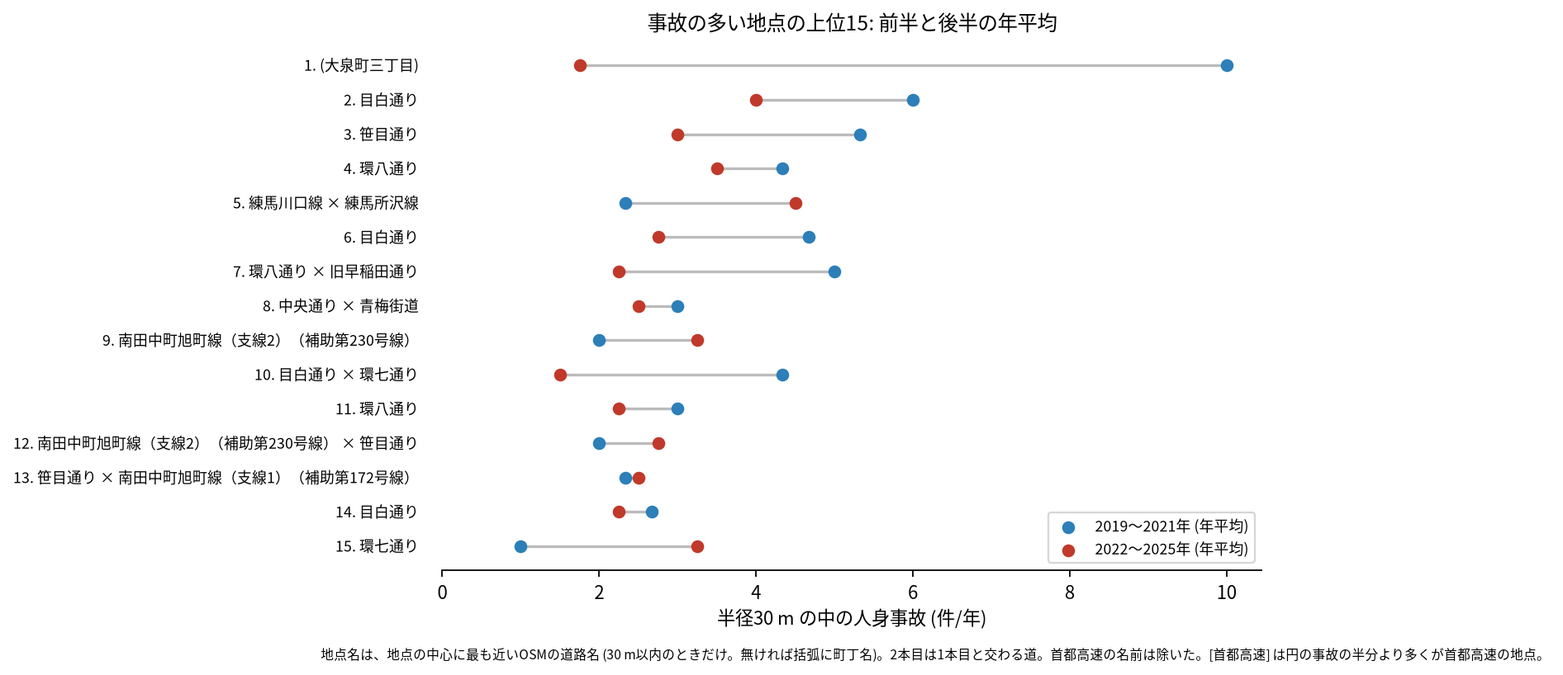
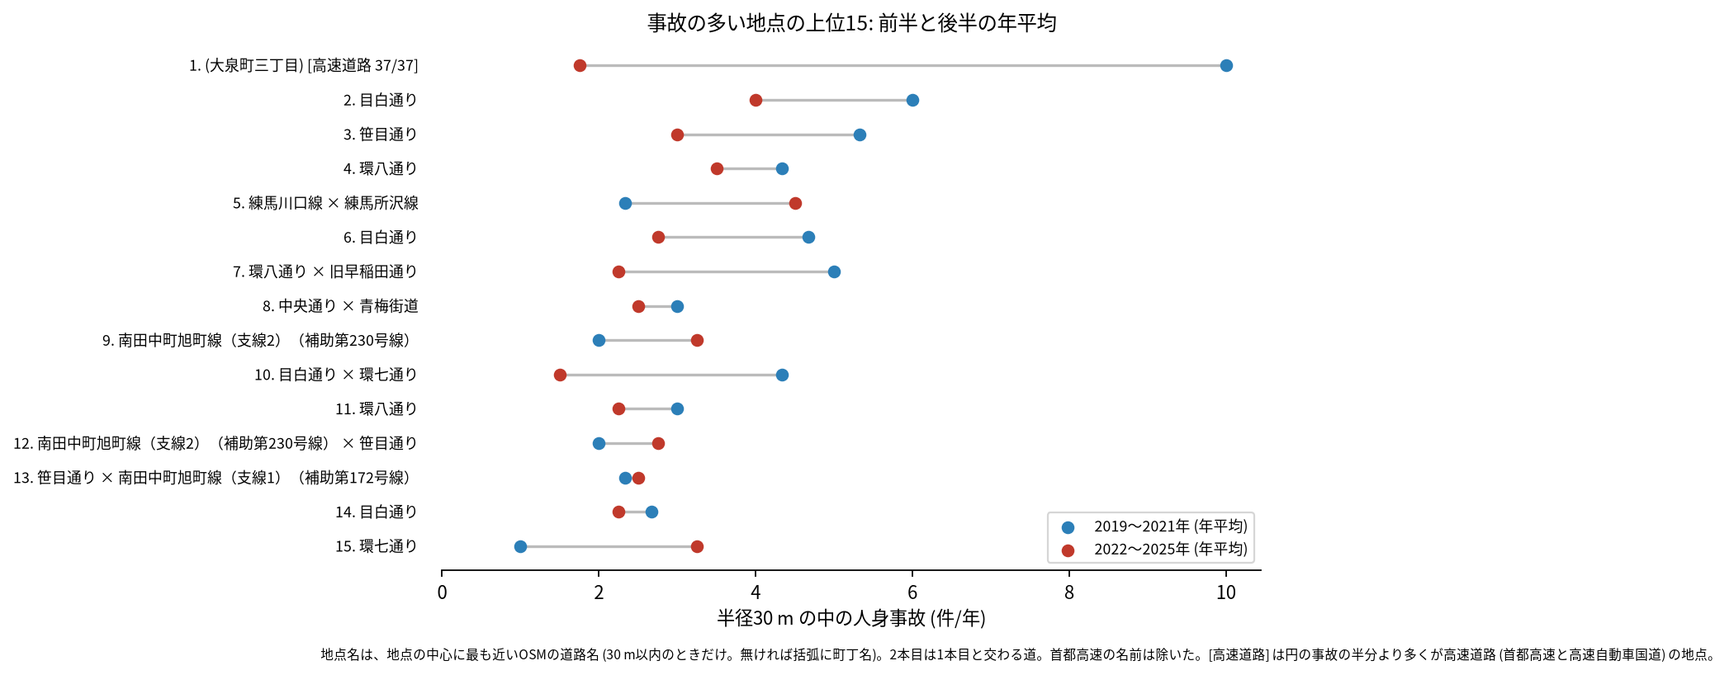
suginami, nerima: count national expressways (route 4000-4999) as expressways (template R020)
Nerima's first hotspot is 37 accidents on the Kan-Etsu; without expressways it drops out (14 of 15 stay).

Claude-Session: https://claude.ai/code/session_01NkWLXtsKgqQGFwWTBKgPox

diff --git a/projects/_traffic_accident/nerima-accident-trends-by-role/scripts/analyze.py b/projects/_traffic_accident/nerima-accident-trends-by-role/scripts/analyze.py
@@ -374,12 +374,16 @@ def main():
     files["deaths"] = write_csv("deaths.csv", sorted(deaths, key=lambda d: d["year"]))
 
     # Road type (route code: 0001-0999 national, 1000-1499 major prefectural, 2000-2999 prefectural,
-    # 3000-3999 municipal, 5000-5499 expressway; 9000- private and other).
+    # 3000-3999 municipal, 4000-4999 national expressway (中央道, 東名, 関越: Suginami, Setagaya, Nerima),
+    # 5000-5499 首都高速; 9000- private and other).
     def route_class(code):
         n = int(code)
         return ("国道" if n < 1000 else "主要地方道 (都道)" if n < 1500 else "一般都道" if 2000 <= n < 3000
-                else "区道" if 3000 <= n < 4000 else "首都高速" if 5000 <= n < 5500 else "その他")
+                else "区道" if 3000 <= n < 4000 else "高速自動車国道" if 4000 <= n < 5000
+                else "首都高速" if 5000 <= n < 5500 else "その他")
     roads = Counter((r["file_year"], route_class(r["route"])) for r in mine)
+    # What その他 holds, by route code (Suginami had to count it outside the outputs).
+    audit["other_route_codes"] = dict(Counter(r["route"] for r in mine if route_class(r["route"]) == "その他").most_common())
     nat = Counter(r["route"] for r in mine if int(r["route"]) < 1000)
     files["route"] = write_csv("route_class.csv", [{"year": y, "route_class": c, "accidents": n}
                                                    for (y, c), n in sorted(roads.items())])
@@ -472,7 +476,7 @@ def main():
                     "top_combo": combos.most_common(1)[0][0], "top_combo_n": combos.most_common(1)[0][1],
                     # 首都高速 accidents in the circle: where they are most, road_1 names the road under the
                     # viaduct (Katsushika's 11th, 15 of 16 on the expressway, named after a surface road).
-                    "expressway": sum(5000 <= int(m["route"]) < 5500 for m in ms),
+                    "expressway": sum(4000 <= int(m["route"]) < 5500 for m in ms),
                     "road_1": near_names[0] if near_names else "",
                     "road_1_m": round(road_1_m, 1) if road_1_m is not None else None,
                     "road_2": near_names[1] if len(near_names) > 1 else "",
@@ -489,15 +493,16 @@ def main():
     # The 30 m hotspots without the 首都高速 accidents (route 5000-5499), beside the main reading: an expressway on
     # a viaduct or in a tunnel shares x, y with the road under or over it (Shibuya, Meguro and Nakano each added
     # this reading; it is part of every run now, and is 0 accidents where no expressway runs).
-    surface = np.flatnonzero([route_class(p["route"]) != "首都高速" for p in prow])
+    # Expressways are 4000-5499 (高速自動車国道 and 首都高速, the routes with a 高速票); Suginami found 4000-4999 left in.
+    surface = np.flatnonzero([not 4000 <= int(p["route"]) < 5500 for p in prow])
     no_expr = [(surface[c], surface[m]) for c, m in greedy_hotspots(xy[surface], RADIUS, TOP)]
     others = np.array([xy[c] for c, _ in no_expr])
     overlap["30m_without_expressway"] = int(sum(np.hypot(*(others - xy[c]).T).min() <= RADIUS for c, _ in sets[RADIUS]))
     audit["expressway_points"] = len(prow) - len(surface)
     audit["hotspot_counts_without_expressway"] = [len(m) for _, m in no_expr]
-    audit["expressway_in_top15"] = {"accidents": int(sum(route_class(prow[i]["route"]) == "首都高速"
+    audit["expressway_in_top15"] = {"accidents": int(sum(4000 <= int(prow[i]["route"]) < 5500
                                                        for _, m in sets[RADIUS] for i in m)),
-                                    "per_rank": [int(sum(route_class(prow[i]["route"]) == "首都高速" for i in m))
+                                    "per_rank": [int(sum(4000 <= int(prow[i]["route"]) < 5500 for i in m))
                                                  for _, m in sets[RADIUS]]}
 
     # B6 towns: accidents and OSM road length per census small area.
@@ -526,9 +531,9 @@ def main():
         (select count(*) from pts p where ST_Contains(t.g, ST_Point(p.x, p.y))) as accidents,
         (select count(*) from pts p where ST_Contains(t.g, ST_Point(p.x, p.y))
             and ('61' in (p.type_A, p.type_B))) as ped,
-        -- 首都高速 accidents: a town under a viaduct counts them, and its road length counts the viaduct (Adachi)
+        -- expressway accidents (4000-5499): a town under a viaduct counts them, and its road length counts the viaduct (Adachi)
         (select count(*) from pts p where ST_Contains(t.g, ST_Point(p.x, p.y))
-            and p.route between '5000' and '5499') as expressway,
+            and p.route between '4000' and '5499') as expressway,
         (select coalesce(sum(ST_Length(ST_Intersection(r.g, t.g))), 0) from road_m r where ST_Intersects(r.g, t.g)) / 1000 as road_km,
         ST_Area(t.g) / 1e6 as area_km2, t.g_lonlat as geometry
         from towns t""")

diff --git a/projects/_traffic_accident/suginami-accident-trends-by-role/scripts/analyze.py b/projects/_traffic_accident/suginami-accident-trends-by-role/scripts/analyze.py
@@ -374,12 +374,16 @@ def main():
     files["deaths"] = write_csv("deaths.csv", sorted(deaths, key=lambda d: d["year"]))
 
     # Road type (route code: 0001-0999 national, 1000-1499 major prefectural, 2000-2999 prefectural,
-    # 3000-3999 municipal, 5000-5499 expressway; 9000- private and other).
+    # 3000-3999 municipal, 4000-4999 national expressway (中央道, 東名, 関越: Suginami, Setagaya, Nerima),
+    # 5000-5499 首都高速; 9000- private and other).
     def route_class(code):
         n = int(code)
         return ("国道" if n < 1000 else "主要地方道 (都道)" if n < 1500 else "一般都道" if 2000 <= n < 3000
-                else "区道" if 3000 <= n < 4000 else "首都高速" if 5000 <= n < 5500 else "その他")
+                else "区道" if 3000 <= n < 4000 else "高速自動車国道" if 4000 <= n < 5000
+                else "首都高速" if 5000 <= n < 5500 else "その他")
     roads = Counter((r["file_year"], route_class(r["route"])) for r in mine)
+    # What その他 holds, by route code (Suginami had to count it outside the outputs).
+    audit["other_route_codes"] = dict(Counter(r["route"] for r in mine if route_class(r["route"]) == "その他").most_common())
     nat = Counter(r["route"] for r in mine if int(r["route"]) < 1000)
     files["route"] = write_csv("route_class.csv", [{"year": y, "route_class": c, "accidents": n}
                                                    for (y, c), n in sorted(roads.items())])
@@ -472,7 +476,7 @@ def main():
                     "top_combo": combos.most_common(1)[0][0], "top_combo_n": combos.most_common(1)[0][1],
                     # 首都高速 accidents in the circle: where they are most, road_1 names the road under the
                     # viaduct (Katsushika's 11th, 15 of 16 on the expressway, named after a surface road).
-                    "expressway": sum(5000 <= int(m["route"]) < 5500 for m in ms),
+                    "expressway": sum(4000 <= int(m["route"]) < 5500 for m in ms),
                     "road_1": near_names[0] if near_names else "",
                     "road_1_m": round(road_1_m, 1) if road_1_m is not None else None,
                     "road_2": near_names[1] if len(near_names) > 1 else "",
@@ -489,15 +493,16 @@ def main():
     # The 30 m hotspots without the 首都高速 accidents (route 5000-5499), beside the main reading: an expressway on
     # a viaduct or in a tunnel shares x, y with the road under or over it (Shibuya, Meguro and Nakano each added
     # this reading; it is part of every run now, and is 0 accidents where no expressway runs).
-    surface = np.flatnonzero([route_class(p["route"]) != "首都高速" for p in prow])
+    # Expressways are 4000-5499 (高速自動車国道 and 首都高速, the routes with a 高速票); Suginami found 4000-4999 left in.
+    surface = np.flatnonzero([not 4000 <= int(p["route"]) < 5500 for p in prow])
     no_expr = [(surface[c], surface[m]) for c, m in greedy_hotspots(xy[surface], RADIUS, TOP)]
     others = np.array([xy[c] for c, _ in no_expr])
     overlap["30m_without_expressway"] = int(sum(np.hypot(*(others - xy[c]).T).min() <= RADIUS for c, _ in sets[RADIUS]))
     audit["expressway_points"] = len(prow) - len(surface)
     audit["hotspot_counts_without_expressway"] = [len(m) for _, m in no_expr]
-    audit["expressway_in_top15"] = {"accidents": int(sum(route_class(prow[i]["route"]) == "首都高速"
+    audit["expressway_in_top15"] = {"accidents": int(sum(4000 <= int(prow[i]["route"]) < 5500
                                                        for _, m in sets[RADIUS] for i in m)),
-                                    "per_rank": [int(sum(route_class(prow[i]["route"]) == "首都高速" for i in m))
+                                    "per_rank": [int(sum(4000 <= int(prow[i]["route"]) < 5500 for i in m))
                                                  for _, m in sets[RADIUS]]}
 
     # B6 towns: accidents and OSM road length per census small area.
@@ -526,9 +531,9 @@ def main():
         (select count(*) from pts p where ST_Contains(t.g, ST_Point(p.x, p.y))) as accidents,
         (select count(*) from pts p where ST_Contains(t.g, ST_Point(p.x, p.y))
             and ('61' in (p.type_A, p.type_B))) as ped,
-        -- 首都高速 accidents: a town under a viaduct counts them, and its road length counts the viaduct (Adachi)
+        -- expressway accidents (4000-5499): a town under a viaduct counts them, and its road length counts the viaduct (Adachi)
         (select count(*) from pts p where ST_Contains(t.g, ST_Point(p.x, p.y))
-            and p.route between '5000' and '5499') as expressway,
+            and p.route between '4000' and '5499') as expressway,
         (select coalesce(sum(ST_Length(ST_Intersection(r.g, t.g))), 0) from road_m r where ST_Intersects(r.g, t.g)) / 1000 as road_km,
         ST_Area(t.g) / 1e6 as area_km2, t.g_lonlat as geometry
         from towns t""")

diff --git a/projects/_traffic_accident/nerima-accident-trends-by-role/scripts/plot.py b/projects/_traffic_accident/nerima-accident-trends-by-role/scripts/plot.py
@@ -408,7 +408,7 @@ def fig_hotspot_halves():
         # A hotspot whose accidents are mostly on the 首都高速 is named after the surface road under it; say so
         # (Toshima's 8th, 14 of 22 on the expressway).
         if int(h["expressway"]) * 2 > int(h["accidents"]):
-            name += f" [首都高速 {h['expressway']}/{h['accidents']}]"
+            name += f" [高速道路 {h['expressway']}/{h['accidents']}]"
         ax.text(-0.3, y, f"{h['rank']}. {name}", ha="right", va="center", fontsize=8)
     ax.set_yticks([])
     ax.set_xlim(0, None)
@@ -418,7 +418,7 @@ def fig_hotspot_halves():
         ax.spines[side].set_visible(False)
     ax.set_title("事故の多い地点の上位15: 前半と後半の年平均", fontsize=11)
     fig.text(0.01, -0.02, "地点名は、地点の中心に最も近いOSMの道路名 (30 m以内のときだけ。無ければ括弧に町丁名)。"
-             "2本目は1本目と交わる道。首都高速の名前は除いた。[首都高速] は円の事故の半分より多くが首都高速の地点。", fontsize=7)
+             "2本目は1本目と交わる道。首都高速の名前は除いた。[高速道路] は円の事故の半分より多くが高速道路 (首都高速と高速自動車国道) の地点。", fontsize=7)
     save(fig, "hotspot-halves", "事故の多い地点は、前半と後半で続いているか", ["outputs/hotspots.csv"],
          sum(int(h["accidents"]) for h in hot), "上位は7年合計で選んだので、選んだ期間と同じデータで見ている (平均への回帰が起きうる)")
 

diff --git a/projects/_traffic_accident/suginami-accident-trends-by-role/scripts/plot.py b/projects/_traffic_accident/suginami-accident-trends-by-role/scripts/plot.py
@@ -408,7 +408,7 @@ def fig_hotspot_halves():
         # A hotspot whose accidents are mostly on the 首都高速 is named after the surface road under it; say so
         # (Toshima's 8th, 14 of 22 on the expressway).
         if int(h["expressway"]) * 2 > int(h["accidents"]):
-            name += f" [首都高速 {h['expressway']}/{h['accidents']}]"
+            name += f" [高速道路 {h['expressway']}/{h['accidents']}]"
         ax.text(-0.3, y, f"{h['rank']}. {name}", ha="right", va="center", fontsize=8)
     ax.set_yticks([])
     ax.set_xlim(0, None)
@@ -418,7 +418,7 @@ def fig_hotspot_halves():
         ax.spines[side].set_visible(False)
     ax.set_title("事故の多い地点の上位15: 前半と後半の年平均", fontsize=11)
     fig.text(0.01, -0.02, "地点名は、地点の中心に最も近いOSMの道路名 (30 m以内のときだけ。無ければ括弧に町丁名)。"
-             "2本目は1本目と交わる道。首都高速の名前は除いた。[首都高速] は円の事故の半分より多くが首都高速の地点。", fontsize=7)
+             "2本目は1本目と交わる道。首都高速の名前は除いた。[高速道路] は円の事故の半分より多くが高速道路 (首都高速と高速自動車国道) の地点。", fontsize=7)
     save(fig, "hotspot-halves", "事故の多い地点は、前半と後半で続いているか", ["outputs/hotspots.csv"],
          sum(int(h["accidents"]) for h in hot), "上位は7年合計で選んだので、選んだ期間と同じデータで見ている (平均への回帰が起きうる)")
 

diff --git a/projects/_traffic_accident/nerima-accident-trends-by-role/scripts/summarize.py b/projects/_traffic_accident/nerima-accident-trends-by-role/scripts/summarize.py
@@ -68,7 +68,7 @@ def main():
     hot = rows("hotspots.csv")
     lines.append("top 15 hotspots: top route " + str(dict(Counter(h["top_route"] for h in hot).most_common()))
                  + "; road_1 " + str(dict(Counter(h["road_1"] or "(none within 30 m)" for h in hot).most_common()))
-                 + f"; with 首都高速 accidents {sum(int(h['expressway']) > 0 for h in hot)}")
+                 + f"; with expressway (4000-5499) accidents {sum(int(h['expressway']) > 0 for h in hot)}")
     (OUT / "summary.txt").write_text("\n".join(lines) + "\n", encoding="utf-8")
     print("\n".join(lines))
 

diff --git a/projects/_traffic_accident/suginami-accident-trends-by-role/scripts/summarize.py b/projects/_traffic_accident/suginami-accident-trends-by-role/scripts/summarize.py
@@ -68,7 +68,7 @@ def main():
     hot = rows("hotspots.csv")
     lines.append("top 15 hotspots: top route " + str(dict(Counter(h["top_route"] for h in hot).most_common()))
                  + "; road_1 " + str(dict(Counter(h["road_1"] or "(none within 30 m)" for h in hot).most_common()))
-                 + f"; with 首都高速 accidents {sum(int(h['expressway']) > 0 for h in hot)}")
+                 + f"; with expressway (4000-5499) accidents {sum(int(h['expressway']) > 0 for h in hot)}")
     (OUT / "summary.txt").write_text("\n".join(lines) + "\n", encoding="utf-8")
     print("\n".join(lines))
 

diff --git a/projects/_traffic_accident/nerima-accident-trends-by-role/report.md b/projects/_traffic_accident/nerima-accident-trends-by-role/report.md
@@ -22,7 +22,7 @@
 |---|---|---|---|
 | 区の交通安全担当 | 生活道路の法定速度 30 km/h (2026-09-01 から) が当たるのは事故の 30.1〜44.4% (読み方による)。死亡事故では自転車の人が最も多く亡くなっている | 目白通り、笹目通り、環八通りの交差点、貨物車と自転車、自転車の単独事故の増え方 | [municipality.md](reports/municipality.md) |
 | 学校と PTA | 若い (0〜24 歳) 歩行者と自転車の事故は 986 件。最も多いのは 16 時台で、平日に限ると 8 時台が最多 | 学校の円の中で、平日の朝と 14〜17 時台の点が並ぶ道 | [school-pta.md](reports/school-pta.md) |
-| 道路安全診断 | 上位は大泉町三丁目の関越自動車道とみられる地点 (37 件)、目白通り (34 件)、笹目通り (28 件)。2 位と 3 位で多い組み合わせは自家用の乗用車と自転車 | 谷原・高松の目白通りと笹目通りの地点、前半から後半に増えた 5 位と 15 位 | [road-safety-auditor.md](reports/road-safety-auditor.md) |
+| 道路安全診断 | 上位は大泉町三丁目の高速自動車国道 (関越自動車道とみられる) の地点 (37 件)、目白通り (34 件)、笹目通り (28 件)。2 位と 3 位で多い組み合わせは自家用の乗用車と自転車 | 谷原・高松の目白通りと笹目通りの地点、前半から後半に増えた 5 位と 15 位 | [road-safety-auditor.md](reports/road-safety-auditor.md) |
 | 住民 | 道路あたりで多いのは光が丘七丁目 (年 4.38 件/道路 km)、光が丘三丁目 (3.33 件)。事故は 8 時台と 17 時台に山がある | 自分の町の色、朝の通勤と通学の時間、自転車に乗るとき | [resident.md](reports/resident.md) |
 
 ### 図 1: 件数の推移
@@ -45,13 +45,13 @@
 
 | 順位 | 近い道路 (OSM) | 町丁 | 件数 | 前半 件/年 | 後半 件/年 |
 |---:|---|---|---:|---:|---:|
-| 1 | (30 m 以内に名前のある一般の道なし。路線は全て「その他」) | 大泉町三丁目 | 37 | 10.00 | 1.75 |
+| 1 | (30 m 以内に名前のある一般の道なし。路線は全て高速自動車国道) | 大泉町三丁目 | 37 | 10.00 | 1.75 |
 | 2 | 目白通り | 谷原六丁目 | 34 | 6.00 | 4.00 |
 | 3 | 笹目通り | 谷原三丁目 | 28 | 5.33 | 3.00 |
 | 4 | 環八通り | 南田中四丁目 | 27 | 4.33 | 3.50 |
 | 5 | 練馬川口線 × 練馬所沢線 | 大泉町二丁目 | 25 | 2.33 | 4.50 |
 
-前半は 2019〜2021 年、後半は 2022〜2025 年。1 位の 37 件は、交差点内が 0 件、歩行者と自転車が 0 件で、多い組み合わせは貨物車どうし (11 件)。路線の区分は 37 件とも「その他」(国道、都道、区道、首都高速のどれでもない) で、地図では関越自動車道の線の上にある。型の路線の区分は高速自動車国道を分けないので、首都高速を除く読み方でも 1 位は残る (下の表)。半径を 20 m にすると上位 15 のうち 11 地点、50 m では 10 地点が残る。6〜15 位は [hotspots.csv](outputs/hotspots.csv)。
+前半は 2019〜2021 年、後半は 2022〜2025 年。1 位の 37 件は、交差点内が 0 件、歩行者と自転車が 0 件で、多い組み合わせは貨物車どうし (11 件)。路線の区分は 37 件とも高速自動車国道 (`路線コード` 4000 番台) で、地図では関越自動車道の線の上にある。高速道路 (首都高速と高速自動車国道) を除くと 1 位は外れ、上位 15 のうち 14 地点が残る (下の表)。半径を 20 m にすると上位 15 のうち 11 地点、50 m では 10 地点が残る。6〜15 位は [hotspots.csv](outputs/hotspots.csv)。
 
 ### 図 4: 町丁ごとの事故
 
@@ -94,7 +94,7 @@
 | 練馬区の事故 | `市区町村コード` 120 の 7,407 件 | 点が区の面に入る事故。両方に当てはまるのは 7,335 件 |
 | 生活道路 | 狭い読み 30.1% (9 位) | 広い読み 44.4% (7 位) |
 | 地点の半径 | 30 m | 20 m で 11 地点、50 m で 10 地点が残る |
-| 首都高速の事故 (型に後から入った読み) | 含める | 練馬区の首都高速の事故は 0 件で、除いても同じ 15 地点 ([analysis.json](outputs/analysis.json)) |
+| 高速道路の事故 (型に後から入った読み) | 含める | 練馬区の高速道路の事故は 122 件で、全て高速自動車国道 (首都高速は 0 件)。上位 15 の円には 37 件 (全て 1 位)。除くと 1 位が外れ、14 地点が残る ([analysis.json](outputs/analysis.json)、[summary.txt](outputs/summary.txt)) |
 | 件数の推移 (型に後から入った読み) | 全ての人身事故 | 自転車 (A) と相手なし・物件 (B) の事故を除くと、2025 年の指数は練馬区 81.1、23 区 91.7。練馬区のこの事故は 2019 年 46 件から 2025 年 173 件 (記録のされ方の変化かは確かめていない) ([yearly.csv](outputs/yearly.csv)、[analysis.json](outputs/analysis.json)) |
 | 町丁の階級 | 分位 5 階級 | 等間隔で 79% の町丁の色が変わる |
 
@@ -109,7 +109,7 @@
 
 - 読み方は結果を見る前に [計画](EXPERIMENT_PLAN.md) で固定し (台東区と同じ読み方)、実行は [記録](EXPERIMENT_TRACKER.md) に残した。生活道路は `車道幅員` が 01、02、11 (狭い読み)、広い読みは 14、17 を足す。歩行者や自転車が関わるかは当事者 A と B の両方で見て、1 件を 1 回数えた。
 - 年齢はデータの年齢層で読む。若い人は 01 (0〜24 歳)、高齢の人は 65 (65〜74 歳) と 75 (75 歳以上)。
-- 距離は EPSG:6677 (メートル) で測った。町丁の道路あたりの上位 5 には、道路が 0.5 km より短い町丁を数えない (練馬区には無い)。地点は、半径 30 m の中の件数が最も多い点を中心に選び、その円の事故を除いて次を選ぶ手順を 15 回くり返した。地点の名前は、中心から 30 m 以内で最も近い道と、それと 30 度以上の向きで交わる道のうち最も近い道。首都高速と高速自動車国道の名前 (OSM の motorway) は名前に使わない。
+- 距離は EPSG:6677 (メートル) で測った。町丁の道路あたりの上位 5 には、道路が 0.5 km より短い町丁を数えない (練馬区には無い)。地点は、半径 30 m の中の件数が最も多い点を中心に選び、その円の事故を除いて次を選ぶ手順を 15 回くり返した。地点の名前は、中心から 30 m 以内で最も近い道と、それと 30 度以上の向きで交わる道のうち最も近い道。首都高速と高速自動車国道の名前 (OSM の motorway) は名前に使わない。高速道路は `路線コード` 4000〜5499 (高速自動車国道と首都高速)。
 - 地図は `analysis-visualize` の map-context に合わせ、地名と道路を重ね、凡例を地図の外に置き、強調した単位に番号を付けた。描いた町丁の数 (202) を分析の数と照らした。文字の重なりと、地名や番号が円や学校の印を隠す重なりは、1 回目に学校の地図で 5 件、地点の地図で 2 件あり、地名 5 つと番号 4 つの位置を直して 3 枚とも 0 件にした。背景の道路 (OGC:CRS84) と町丁 (JGD2000) の差は、線の幅より小さいとして変換せずに重ねた。
 - 関門: 予測と回帰をしないので、評価の分け方と残差の確認は要らない。単位の間の相関を結論にしないので、Moran's I と格子の掃引は省いた。推移は 23 区全体を基準にし、年の件数に Poisson の 95% 区間を付けた。対策の効果は推定していない。
 - 再実行は [README.md](README.md)。数値は [outputs/](outputs/) の CSV、来歴は [analysis.json](outputs/analysis.json)。
@@ -117,7 +117,7 @@
 ## 確かめていないこと
 
 - 交通量、昼の人口で割っていない。目白通りや笹目通りの件数の多さは、車と人の多さかもしれない。
-- 1 位の地点が関越自動車道の上にあることは、地図の位置と路線の区分から読んだ。型の路線の区分は、高速自動車国道 (関越自動車道、東京外環自動車道) を「その他」に入れ、首都高速を除く読み方でも除かない。高速道路の事故を除いた地点の順位は出していない。
+- 1 位の地点の高速自動車国道が関越自動車道であることは、地図の位置から読んだ (路線コードと路線名の対応は確かめていない)。高速道路を除いた地点の 2 位以下の順位は [analysis.json](outputs/analysis.json) の件数だけで、地点ごとの表は出していない。
 - 光が丘の町丁の値が高い理由 (団地の中の道が OSM の車道に入らないためか、縁の幹線の事故か) は、地点ごとには確かめていない。
 - 位置の精度は分からない。30 m の地点と町丁の境界の近くの事故は、数十 m のずれで入れ替わる。
 - 事故の型 (出会い頭、追突)、重傷と軽傷の区別、物損事故、ヒヤリハットは、このデータに無い。

diff --git a/projects/_traffic_accident/nerima-accident-trends-by-role/reports/road-safety-auditor.md b/projects/_traffic_accident/nerima-accident-trends-by-role/reports/road-safety-auditor.md
@@ -12,7 +12,7 @@
 
 | 順位 | 近い道路 (OSM) | 件数 | 前半 件/年 | 後半 件/年 | 交差点内 | 信号あり | 多い組み合わせ (A × B) |
 |---:|---|---:|---:|---:|---:|---:|---|
-| 1 | (大泉町三丁目。名前のある一般の道は 30 m 以内に無い) | 37 | 10.00 | 1.75 | 0 | 0 | 貨物車 × 貨物車 |
+| 1 | (大泉町三丁目。名前のある一般の道は 30 m 以内に無い。高速自動車国道) | 37 | 10.00 | 1.75 | 0 | 0 | 貨物車 × 貨物車 |
 | 2 | 目白通り | 34 | 6.00 | 4.00 | 31 | 34 | 乗用車 (自家用) × 自転車 |
 | 3 | 笹目通り | 28 | 5.33 | 3.00 | 18 | 26 | 乗用車 (自家用) × 自転車 |
 | 4 | 環八通り | 27 | 4.33 | 3.50 | 0 | 0 | 乗用車 (自家用) × 乗用車 (自家用) |
@@ -25,7 +25,7 @@
 
 前半は 2019〜2021 年、後半は 2022〜2025 年。11〜15 位と、歩行者、自転車、夜の件数は [hotspots.csv](../outputs/hotspots.csv) にあります。道路名は地点の中心に最も近い OSM の道路名 (30 m 以内のときだけ) で、2 本目は 1 本目と交わる向き (30 度以上) の道のうち最も近いもので、30 m 以内のときだけ書きました (首都高速と高速自動車国道の名前は除いた)。
 
-- 1 位の地点: 37 件の全てが路線の区分「その他」(国道、都道、区道、首都高速のどれでもない) で、交差点内も歩行者と自転車も 0 件です。地図では関越自動車道の線の上にあり、高速道路の上の事故とみられます。料金所などの施設との関係は外の知識で、確かめていません。区の道路の診断の対象とは別に扱ってください。
+- 1 位の地点: 37 件の全てが高速自動車国道 (`路線コード` 4000 番台) の事故で、交差点内も歩行者と自転車も 0 件です。地図では関越自動車道の線の上にあります。高速道路 (首都高速と高速自動車国道) の事故を除いて選び直すと、1 位は外れ、上位 15 のうち 14 地点が残ります。練馬区の高速道路の事故は 122 件で、首都高速は 0 件です。料金所などの施設との関係は外の知識で、確かめていません。区の道路の診断の対象とは別に扱ってください。
 - 4 位と 7 位: 環八通りの上で、交差点内は 27 件のうち 0 件と、24 件のうち 3 件です。乗用車どうしの組み合わせが最も多く、交差点でない区間の事故が集まっています。
 - 続いているか: 上位 15 は全て前半と後半の両方に事故があります。1 位 (10.00 から 1.75 件/年) と 10 位 (4.33 から 1.50 件/年) は後半に減り、5 位 (2.33 から 4.50 件/年) と 15 位 (1.00 から 3.25 件/年) は増えました。上位は 7 年合計で選んだので、後半が下がって見えやすい (平均への回帰) ことに注意してください。
 
@@ -48,7 +48,7 @@
 ## 確かめていないこと
 
 - 交通量で割っていません。件数の多い交差点が、車の多さに比べて危険かは分かりません。
-- 高速道路 (関越自動車道、東京外環自動車道) の事故を除いた地点の順位は出していません。型の路線の区分が高速自動車国道を分けないためです。
+- 高速道路を除いて選び直した地点は、件数 ([analysis.json](../outputs/analysis.json)) だけで、地点ごとの道路名の表は出していません。高速自動車国道が関越自動車道か東京外環自動車道かは、路線コードからは確かめていません。
 - 事故の型 (出会い頭、右折、追突)、違反の種類、重傷と軽傷の区別は、このデータにありません。現地で確かめてください。
 - 位置の精度は分かりません。数十 m のずれで地点の件数は変わります。
 - 偶然でもこの程度の集まりが生まれるか (順位の有意さ) は調べていません。

diff --git a/projects/_traffic_accident/suginami-accident-trends-by-role/EXPERIMENT_TRACKER.md b/projects/_traffic_accident/suginami-accident-trends-by-role/EXPERIMENT_TRACKER.md
@@ -14,3 +14,4 @@
 | R008 | - | - | done | outputs/deaths.csv | - | 死亡事故 33 件、死者 34 人。亡くなった側が歩行者の事故 14 件 (65 歳以上 8 件) |
 | R009 | B4, B5, B6 | exploratory | done | outputs/school-map.json, outputs/hotspots-map.json, outputs/town-rate.json | 1 回目の学校の地図で、地名「高円寺」が杉並第六小学校の印を、「下高井戸」が高井戸第三小学校と向陽中学校の印を隠した (text_overlaps 3 件)。`LANDMARK_OFFSETS` で高円寺を北へ 250 m、下高井戸を北へ 300 m 動かすと永福と重なったので、西へ 450 m、北へ 200 m にした。値と選び方は変えていない | 3 枚とも text_overlaps 0 件。拡大図 (環七通り、高円寺〜堀ノ内) に 1、3、8、9、10、13、15 位。PNG は全て目で確かめた |
 | R010 | B5, B6 | exploratory | done | (出力なし) | 結果を見た後、route_class.csv の「その他」168 件が多いので、`tokyo_honhyo.parquet` から杉並区の「その他」の路線コードを数えた (出力には書いていない)。型の集計は変えていない | 9500 が 67 件、9900 が 60 件、4261 が 30 件、9000 が 9 件、4262 と 7000 が 1 件ずつ。dataset-discovery の npa-traffic-accidents の参照では 4000〜5499 が高速道路 (高速自動車国道と指定の自動車専用道) で、4261 と 4262 は区を通る中央自動車道とみられる (路線の名前は確かめていない)。型の `route_class` は 4000〜4999 を「その他」に入れ、首都高速を除いた読み方でも除かない |
+| R011 | B5, B6 | exploratory | done | outputs/route_class.csv, outputs/analysis.json, outputs/towns.csv, outputs/summary.txt | 台東区の型の R020 (高速自動車国道、`路線コード` 4000〜4999 を「その他」から分けた) を写して流し直した (2026-11-03、結果を見た後。R010 の指摘から型が直った)。analyze.py、plot.py、summarize.py の差分だけを写し、区の定数と地名の調整は残した。高速道路を除く読み方と hotspots.csv、towns.csv の `expressway` は 4000〜5499 になり、analysis.json に `other_route_codes` が出る。図の印は [高速道路 n/件] | 高速自動車国道は 31 件、「その他」は 168 件から 137 件 (9500 が 67、9900 が 60、9000 が 9、7000 が 1)。高速道路の事故 (`expressway_points`) は 108 件から 139 件。上位 15 の円の高速道路の事故は 4 件のままで、hotspots.csv、首都高速を除く読み方の地点 (14/15 が残る) と町丁の上位 5 は変わらない。towns.csv で変わったのは `expressway` の 3 町丁 (上高井戸二丁目 0 から 27、久我山二丁目 0 から 3、高井戸西一丁目 0 から 1) だけ。text_overlaps は 3 枚とも 0 件 |

diff --git a/projects/_traffic_accident/suginami-accident-trends-by-role/report.md b/projects/_traffic_accident/suginami-accident-trends-by-role/report.md
@@ -94,7 +94,7 @@
 | 生活道路 | 狭い読み 34.7% (4 位) | 広い読み 47.7% (4 位) ([wards.csv](outputs/wards.csv)) |
 | 件数の推移 | 全ての人身事故 | 自転車 (A) と相手なし・物件 (B) の事故を除くと、2025 年の指数は杉並区 77.8、23 区 91.7。この事故は杉並区で 2019 年 18 件から 2025 年 167 件に増えた (記録のされ方の変化かは確かめていない) ([yearly.csv](outputs/yearly.csv)) |
 | 地点の半径 | 30 m | 20 m で 10 地点、50 m で 13 地点が残る ([analysis.json](outputs/analysis.json)) |
-| 首都高速の事故 | 含める | 除くと 15 地点のうち 14 が残る。首都高速の事故は区で 108 件、上位 15 の円には 4 件 ([analysis.json](outputs/analysis.json)) |
+| 高速道路の事故 (首都高速と高速自動車国道) | 含める | 除くと 15 地点のうち 14 が残る。高速道路の事故は区で 139 件、上位 15 の円には 4 件で、どれも首都高速 ([analysis.json](outputs/analysis.json)) |
 | 町丁の階級 | 分位 5 階級 | 等間隔で 77% の町丁の色が変わる ([town-rate-quantile.json](outputs/town-rate-quantile.json)) |
 
 ## データ
@@ -121,4 +121,4 @@
 - 事故の型 (出会い頭、追突)、重傷と軽傷の区別、物損事故、ヒヤリハットは、このデータに無い。
 - 0〜24 歳より細かい年齢は無く、小学生だけは数えられない。
 - 地点の上位は 7 年で選び、同じ 7 年で前半と後半を比べたので、後半が下がって見えやすい (平均への回帰)。
-- 中央自動車道とみられる路線コード (4000 番台) の事故は、型の区分で首都高速に入らず「その他」に数えられ、首都高速を除いた読み方でも残る (記録の R010。路線の名前は確かめていない)。
+- 路線の区分で、首都高速は 108 件、高速自動車国道 (路線コード 4000 番台) は 31 件、「その他」は 137 件 ([summary.txt](outputs/summary.txt))。高速自動車国道は区を通る中央自動車道とみられるが、路線の名前は確かめていない。初めの版では型がこの 31 件を「その他」に入れ、高速道路を除く読み方でも除いていなかった (記録の R010、R011)。「その他」の内訳は [analysis.json](outputs/analysis.json) の `other_route_codes` で、その路線の意味は確かめていない。

diff --git a/projects/_traffic_accident/suginami-accident-trends-by-role/reports/road-safety-auditor.md b/projects/_traffic_accident/suginami-accident-trends-by-role/reports/road-safety-auditor.md
@@ -34,7 +34,7 @@
 ![当事者の組み合わせ](../outputs/party-matrix.png)
 
 - 半径を変えると: 20 m の上位 15 の中心が、30 m の上位 15 の中心から 30 m 以内にあるのは 10 地点、50 m では 13 地点でした。環七通りの並んだ地点は、半径でまとまり方が変わりえます。順位は細かく読まないでください ([analysis.json](../outputs/analysis.json))。
-- 首都高速: 区の事故のうち首都高速 (路線コードの首都高速の範囲。区の南の端の 4 号新宿線とみられるが、路線は確かめていない) の事故は 108 件で、上位 15 の円に入るのは 4 位と 14 位の 2 件ずつです。首都高速を除いて選び直しても、15 地点のうち 14 が残ります ([analysis.json](../outputs/analysis.json))。
+- 高速道路: 区の事故のうち高速道路の事故は 139 件で、首都高速が 108 件 (区の南の端の 4 号新宿線とみられる)、高速自動車国道が 31 件 (中央自動車道とみられる) です。路線の名前は確かめていません ([summary.txt](../outputs/summary.txt))。上位 15 の円に入る高速道路の事故は 4 位と 14 位の 2 件ずつで、どれも首都高速です。高速道路の事故を除いて選び直しても、15 地点のうち 14 が残ります ([analysis.json](../outputs/analysis.json))。
 
 ## データ
 
@@ -49,5 +49,4 @@
 - 交通量で割っていません。件数の多い交差点が、車の多さに比べて危険かは分かりません。
 - 事故の型 (出会い頭、右折、追突)、違反の種類、重傷と軽傷の区別は、このデータの集計に入れていません。10 位の単路の事故がどんな型かは、現地で確かめてください。
 - 位置の精度は分かりません。数十 m のずれで地点の件数は変わります。
-- 中央自動車道とみられる路線の事故は、首都高速の区分に入っていません (共通の報告の「確かめていないこと」)。
 - 偶然でもこの程度の集まりが生まれるか (順位の有意さ) は調べていません。

diff --git a/projects/_traffic_accident/nerima-accident-trends-by-role/EXPERIMENT_TRACKER.md b/projects/_traffic_accident/nerima-accident-trends-by-role/EXPERIMENT_TRACKER.md
@@ -13,3 +13,4 @@
 | R007 | B6 | exploratory | done | outputs/towns.csv, outputs/town-rate-quantile.json, outputs/town-rate.json | - | 分位と等間隔で 79.1% の町丁の色が変わる。道路 0.5 km 未満の町丁は無い。上位 5 のうち 3 つが光が丘 |
 | R008 | - | - | done | outputs/deaths.csv | - | 死者のある事故 49 件 (死者 50 人)。亡くなった人は自転車 20、歩行者 14、二輪車 10 |
 | R009 | B4, B5, B6 | exploratory | done | outputs/school-map.json, outputs/hotspots-map.json, outputs/town-rate.json | 1 回目の text_overlaps は学校の地図で 5 件 (中村、北町、土支田、南大泉、大泉学園町の地名が学校の四角を隠した)、地点の地図で 2 件 (番号 4 と 7、6 と 10 が重なった)。`LANDMARK_OFFSETS` で 5 つの地名をずらし、`NUMBER_OFFSETS` で 4 と 6 を円の左上、7 と 10 を円の下に移した | 3 枚とも text_overlaps 0 件。全ての PNG を開いて目で確かめた |
+| R010 | B5, B6 | exploratory | done | outputs/route_class.csv, outputs/analysis.json, outputs/hotspots.csv, outputs/towns.csv, outputs/hotspot-halves.png | 台東区の型の R020 (2026-11-03、練馬区と杉並区の報告から) を写して全部を流し直した。結果を見た後の変更。`路線コード` 4000〜4999 を「高速自動車国道」の区分にし、高速道路を除く読み方と hotspots.csv と towns.csv の `expressway` を 4000〜5499 にした。analysis.json に `other_route_codes` を出し、前半と後半の図の印を [高速道路 n/件] にした。練馬区の定数と地名の調整は変えていない | 高速道路の事故 122 件 (高速自動車国道 122、首都高速 0)。「その他」は 322 件から 200 件 (9500 が 110、9900 が 78)。上位 15 の円に高速道路 37 件 (全て 1 位)、除くと 30 m の上位 15 のうち 14 地点が残る (R006 では 15)。towns.csv の expressway の合計は 120 件。地点の選び方、順位、町丁の上位 5 は前と同じ。text_overlaps は 3 枚とも 0 件 |
